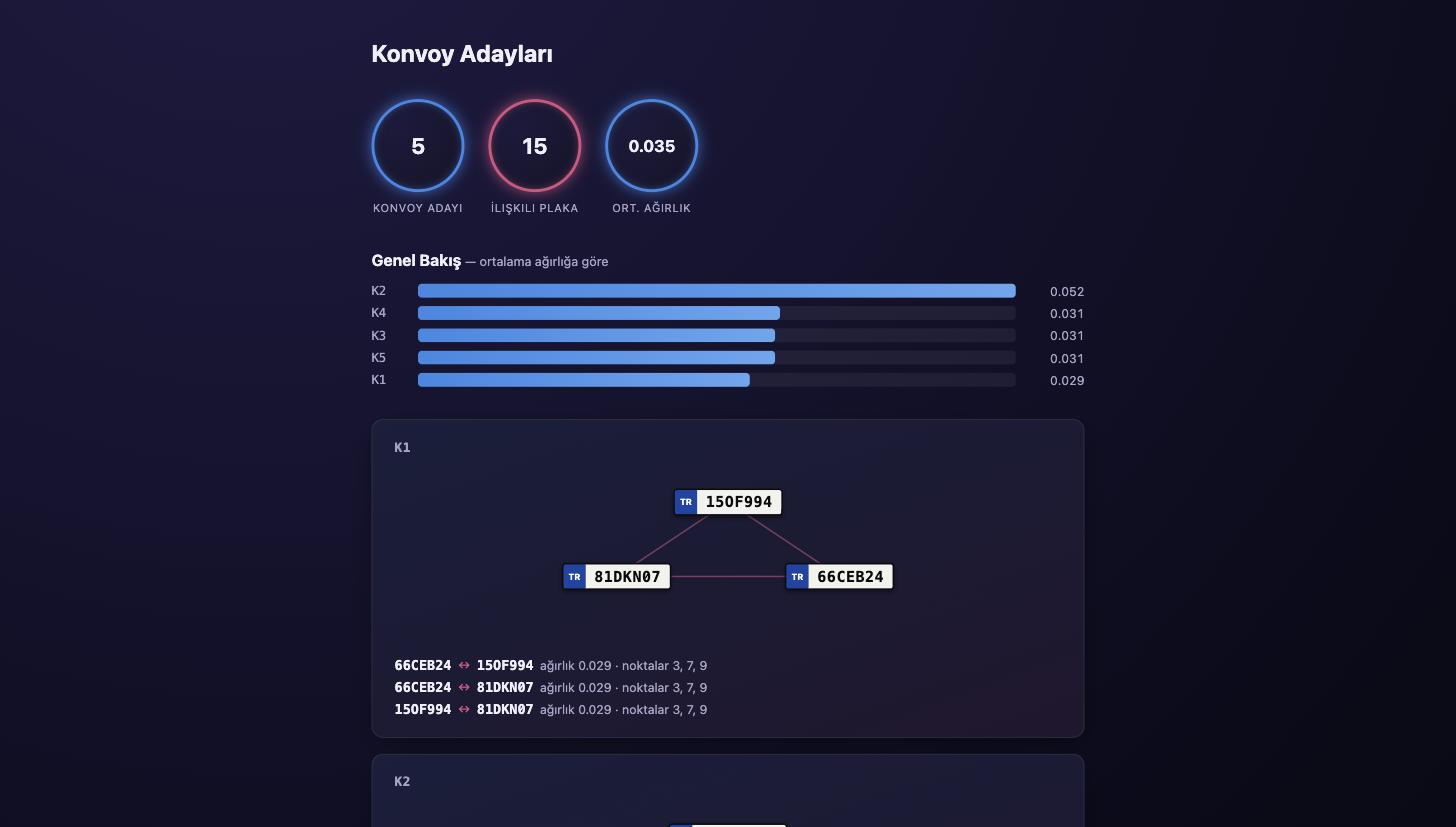
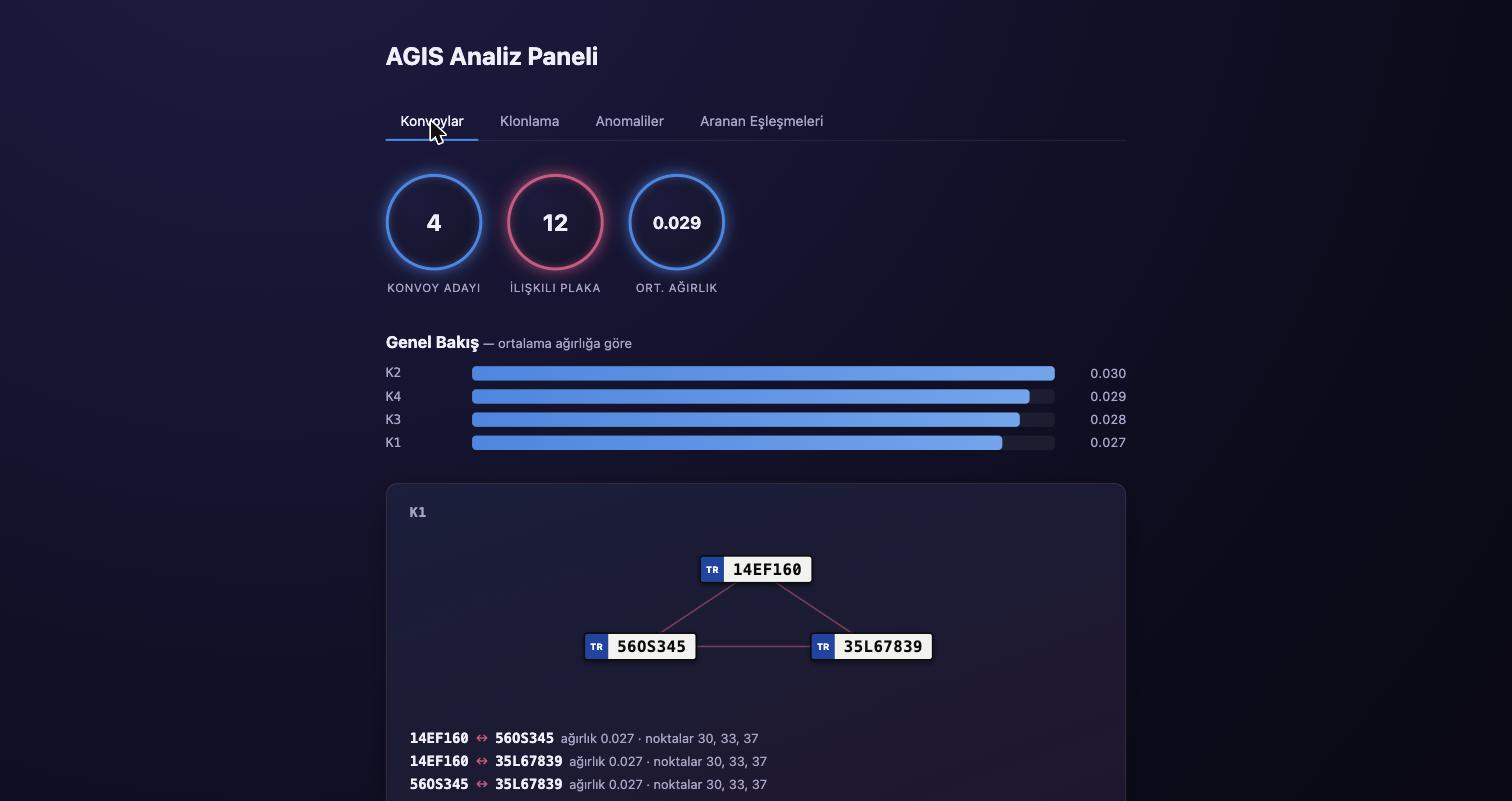
Update dashboard README

diff --git a/dashboard/README.md b/dashboard/README.md
@@ -1,21 +1,62 @@
 # AGIS Dashboard
 
-Vue 3 + Vite ile yazılan minimal bir baslangic: tek sayfa, `/konvoylar`
-ucundan gercek zamanli veri cekip gorsellestiriyor (bkz. `src/App.vue`).
-Router, state kutuphanesi, UI framework, chart kutuphanesi yok -- bilerek
-kucuk tutuldu; grafikler el yazimi CSS/SVG (dataviz skill'inin form/renk/
-etiket kurallarina gore: buyukluk kiyasi icin tek renkli yatay cubuk,
-iliski icin dugum-kenar grafi, hicbir sayi uydurulmuyor).
+Vue 3 + Vite panel: dört analitik ucun (`/konvoylar`, `/klonlar`,
+`/anomaliler`, `/aranan/eslesmeler`) her biri icin bir sekme, canli veri
+cekip gorsellestiriyor. Router, state kutuphanesi, UI framework, chart
+kutuphanesi yok -- bilerek kucuk tutuldu; sekme gecisi `App.vue`'de duz
+bir `shallowRef`, grafikler el yazimi CSS/SVG (dataviz skill'inin form/
+renk/etiket kurallarina gore: buyukluk kiyasi icin tek renkli yatay
+cubuk -- konvoy agirligi, klonlama hizi/esik -- kimlik ayrimi icin
+kategorik yigin bar -- anomali turu, eslesme kesinligi -- hicbir sayi
+uydurulmuyor).
 
-## Ornek veri uretmek
+`src/api.js`'deki `useKaynak()` her sekmenin tekrarladigi fetch/durum
+iskeletini topluyor; `src/components/` altinda `Plaka` (gercek Turk
+plakasi rozeti), `StatKutu` (ozet halkasi), `DurumMesaji` (yukleniyor/
+hata/bos durumlari) paylasilan parcalar.
 
-Sayfa tek bir planted konvoyla oldukca bos gorunuyor. Zengin bir demo
+## Calistirma
+
+**En basit yol:** repo kokunden `docker compose up --build` -- `db`,
+`api` ve `dashboard` servislerinin ucunu de ayaga kaldirir,
+http://localhost:5173.
+
+**Ayri ayri:**
+
+```bash
+# API (ayrı bir terminalde)
+python3 -m venv .venv-api && source .venv-api/bin/activate
+pip install -r ../requirements-api.txt
+cd .. && uvicorn app.main:app --reload
+
+# Dashboard
+cd dashboard
+npm install
+npm run dev          # http://localhost:5173
+```
+
+API'nin adresi `VITE_API_BASE` ile ayarlanir (varsayilan
+`http://localhost:8000`; docker-compose'da `environment:` ile aciqca
+`http://localhost:8000` set ediliyor -- fetch tarayicida calistigi icin
+Docker network adi `api:8000` degil, host'tan gorunen yayinlanmis port
+dogru). API sadece `http://localhost:5173` ve `http://127.0.0.1:5173`
+origin'lerine CORS izni veriyor (bkz. `app/main.py`); baska bir portta
+calistirirsan orayi da eklemen gerekir.
+
+## Örnek veri üretmek
+
+Tek bir planted senaryoyla sayfa oldukca bos gorunuyor. Zengin bir demo
 veri seti icin `synth_scenario.py`'yi birden fazla tohumla ayni
-veritabanina yukle (once tablolari olustur):
+veritabanina yukle:
 
 ```bash
 source ../.venv/bin/activate   # requirements-ml.txt (torch, networkx, sqlalchemy)
-export DATABASE_URL="sqlite:////tmp/dashboard_demo.db"
+
+# Dockerized Postgres'e yuklemek icin:
+export DATABASE_URL="postgresql+psycopg://agis:agis@localhost:5432/agis"
+# ya da bagimsiz bir SQLite dosyasi icin:
+# export DATABASE_URL="sqlite:////tmp/dashboard_demo.db"
+
 cd ..
 python3 -c "from app.db import Base, engine; import app.models; Base.metadata.create_all(bind=engine)"
 for seed in 11 12 13 14 15; do
@@ -24,26 +65,18 @@ done
 ```
 
 Her `--load-db` cagrisi kendi sehir topolojisini (Nokta satirlari) ve
-kendi planted konvoyunu ekliyor -- ayni DATABASE_URL'e birden fazla kez
+kendi planted olaylarini ekliyor -- ayni DATABASE_URL'e birden fazla kez
 yazmak, bagimsiz senaryolari biriktiriyor.
 
-## Calistirma
-
-API ayrica ayakta olmali (`docker compose up` ya da yerelde `uvicorn`).
-API'nin adresi `.env` dosyasinda `VITE_API_BASE` ile ayarlanabilir,
-varsayilan `http://localhost:8000`.
-
-```bash
-npm install
-npm run dev          # http://localhost:5173
-```
-
-API, sadece `http://localhost:5173` ve `http://127.0.0.1:5173`
-origin'lerine CORS izni veriyor (bkz. `app/main.py`); baska bir portta
-calistirirsan orayi da eklemen gerekir.
+**Bilinen sinir:** `Base.metadata.create_all()` var olan bir tabloyu
+DEGISTIRMEZ, sadece eksik tabloyu olusturur. Şema `app/models.py`'de
+degisirse (ornegin bir kisit kaldirilirsa) ve DB'de o tablo zaten
+varsa, degisiklik oraya hic ulasmaz -- projede Alembic gibi bir
+migration araci yok. Boyle bir uyusmazlik yasarsan ya volume'u sifirla
+(`docker compose down -v`) ya da elle `ALTER TABLE` calistir.
 
 ## Durum
 
-Şu an sadece konvoy listesi var. `/klonlar`, `/anomaliler`,
-`/aranan/eslesmeler` icin sayfa/gorunum henuz yok -- CLAUDE.md'deki
-roadmap'e bakilabilir.
+Dort görünüm de tamam, `docker-compose.yml`'e bağlı. Henüz yok:
+grafiklerde filtre/zaman araligi, sayfalama (buyuk veri setlerinde
+tum sonuc tek seferde cekiliyor).
